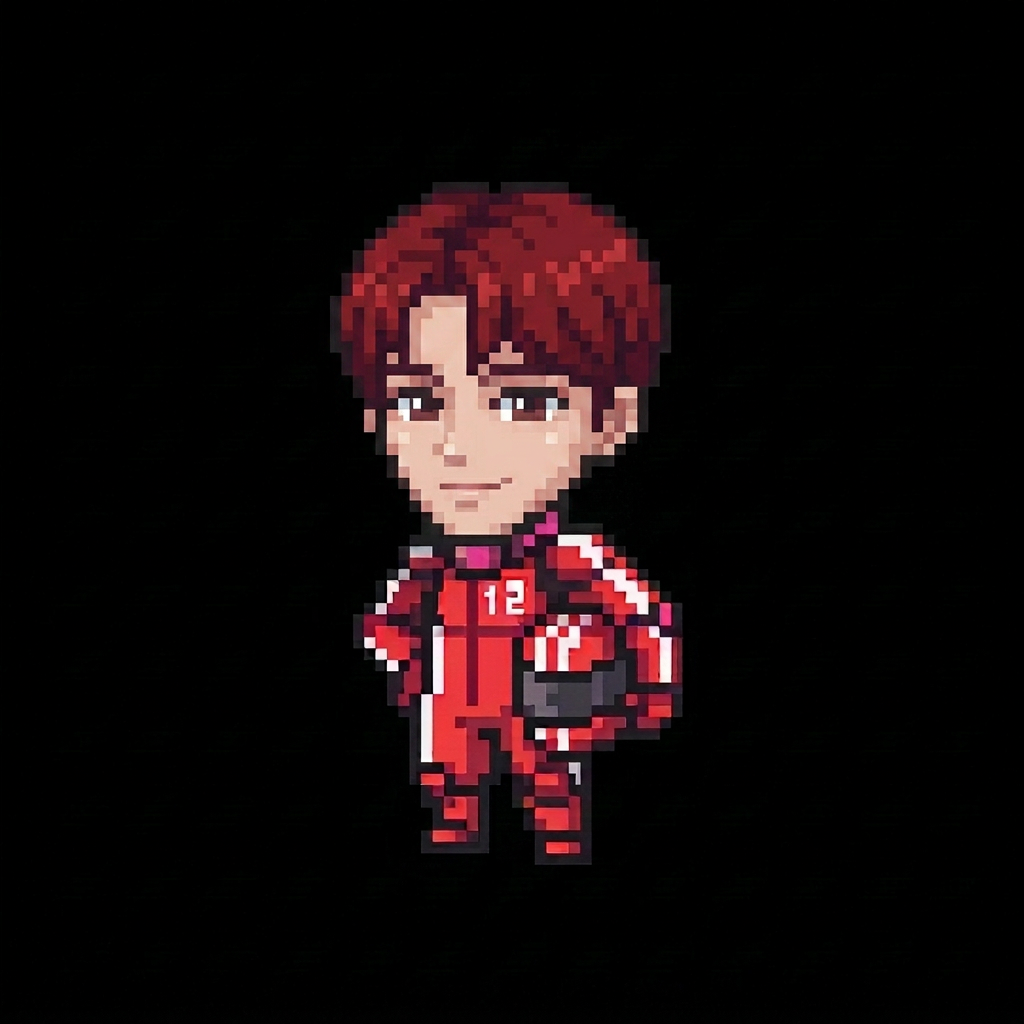
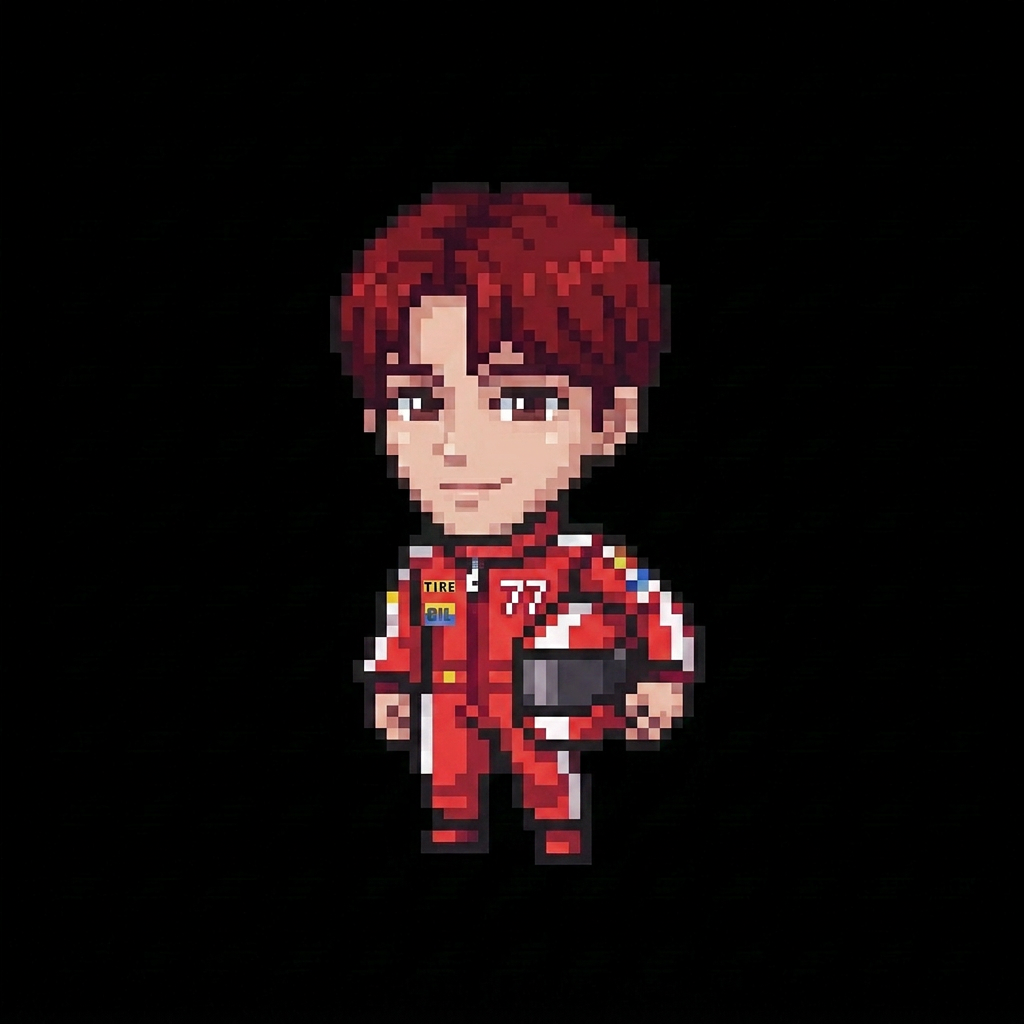
Changes

Changed region(s): [[0.3438, 0.5, 0.6875, 0.8438]]

diff --git a/src/assets/avatars/index.ts b/src/assets/avatars/index.ts
@@ -32,8 +32,8 @@ export const AVATARS: AvatarDef[] = [
   { id: "nova",   name: "NOVA",   tagline: "Classic flight, clean ignition.",   src: nova,   accent: "#FFD27A" },
   { id: "ember",  name: "EMBER",  tagline: "Lofi beats to launch rockets to.",  src: ember,  accent: "#FF7A3D" },
   { id: "nebula", name: "NEBULA", tagline: "Stardust in the visor.",            src: nebula, accent: "#E254A8" },
-  { id: "drift",  name: "DRIFT",  tagline: "Calm pilot, long trajectories.",    src: drift,  accent: "#4FC3C7" },
   { id: "relic",  name: "RELIC",  tagline: "Old metal, new horizons.",          src: relic,  accent: "#C58A3D" },
+  { id: "drift",  name: "DRIFT",  tagline: "Calm pilot, long trajectories.",    src: drift,  accent: "#4FC3C7" },
   { id: "pixel",  name: "PIXEL",  tagline: "Minimal kit. Maximum range.",       src: pixel,  accent: "#E5E7EB" },
   { id: "aurora", name: "AURORA", tagline: "Glow-up in low orbit.",             src: aurora, accent: "#3CDCB0" },
   { id: "comet",  name: "COMET",  tagline: "Bright streak across the dark.",    src: comet,  accent: "#FF4D5E" },

diff --git a/.lovable/plan.md b/.lovable/plan.md
@@ -1,24 +1,31 @@
 ## Goal
 
-Refine COMET (less greasy, more soft pretty-boy / 미소년) and SHIBA (slimmer, cuter chibi).
+Four refinements: PIXEL gets blush, swap DRIFT/RELIC order, redesign COMET as a racing-driver vibe, and rework SHIBA into a 4-legged sitting puppy in a spacesuit.
 
 ## Changes
 
-1. **`src/assets/avatars/comet.png`** — regenerate:
-   - Soft pretty-boy (미소년) vibe: youthful, clean, slightly cool — NOT smug or greasy
-   - Slimmer face, softer jawline, gentle calm expression (faint smile, not a smirk)
-   - Larger clear eyes, lighter eyebrows
-   - New hairstyle: clean modern K-pop style red hair — soft fringe falling over the forehead, neat but slightly textured (no more spiky/messy windblown look)
-   - Keep red racing/pilot suit, chunky pixel-art style, pure black background, same canvas framing
+1. **`src/assets/avatars/pixel.png`** — edit only:
+   - Add small pink blush dots on both cheeks
+   - Keep everything else (long hair, soft eyes, cat-like upturn, calm expression, outfit, black background) pixel-for-pixel identical
 
-2. **`src/assets/avatars/corgi.png`** — regenerate:
-   - Slimmer, smaller chibi proportions — currently the body looks too chunky/round
-   - Reduce overall body width, narrower torso, daintier limbs
-   - Keep the reference Shiba face (squinty smile, open mouth, blush, dark brow markings)
-   - Two human-like legs, simple white+orange spacesuit
-   - Even smaller character on the canvas — more black negative space around it
-   - Same chunky pixel-art style, pure black background
+2. **`src/assets/avatars/index.ts`** — swap order of DRIFT and RELIC in the `AVATARS` array so RELIC comes before DRIFT. No other field changes (id/name/tagline/accent stay).
+
+3. **`src/assets/avatars/comet.png`** — regenerate:
+   - Pretty-boy K-pop face stays, but lean into a **professional racing driver** vibe
+   - Wearing a proper red & white racing suit with sponsor-style stripes / number patch / collar zipper
+   - Holding a racing helmet (red with white visor stripe) tucked under one arm at hip
+   - Confident composed posture, faint cool smile
+   - Same chunky pixel-art style, pure black background, same canvas framing
+
+4. **`src/assets/avatars/corgi.png`** — regenerate:
+   - Cute Shiba-like puppy **sitting on all four legs** (NOT bipedal anymore) — classic dog sitting pose, front paws on ground, back legs tucked
+   - Wearing a small white-and-orange astronaut spacesuit fitted to a quadruped body (suit covers torso/legs)
+   - Round bubble space helmet placed **on the ground next to the dog** (not worn, not held)
+   - Keep the reference Shiba face: squinty smile, open pink mouth, blush, dark brow markings, perky ears
+   - Short limbs, small chibi proportions, plenty of black negative space
+   - Same chunky pixel-art style, pure black #000000 background
 
 ## Approach
 
-Use `imagegen--edit_image` on each existing file in parallel with style-matching prompts. No code changes.
+- One `code--line_replace` for `index.ts` (swap two lines)
+- Three `imagegen--edit_image` calls in parallel for the three avatar files
